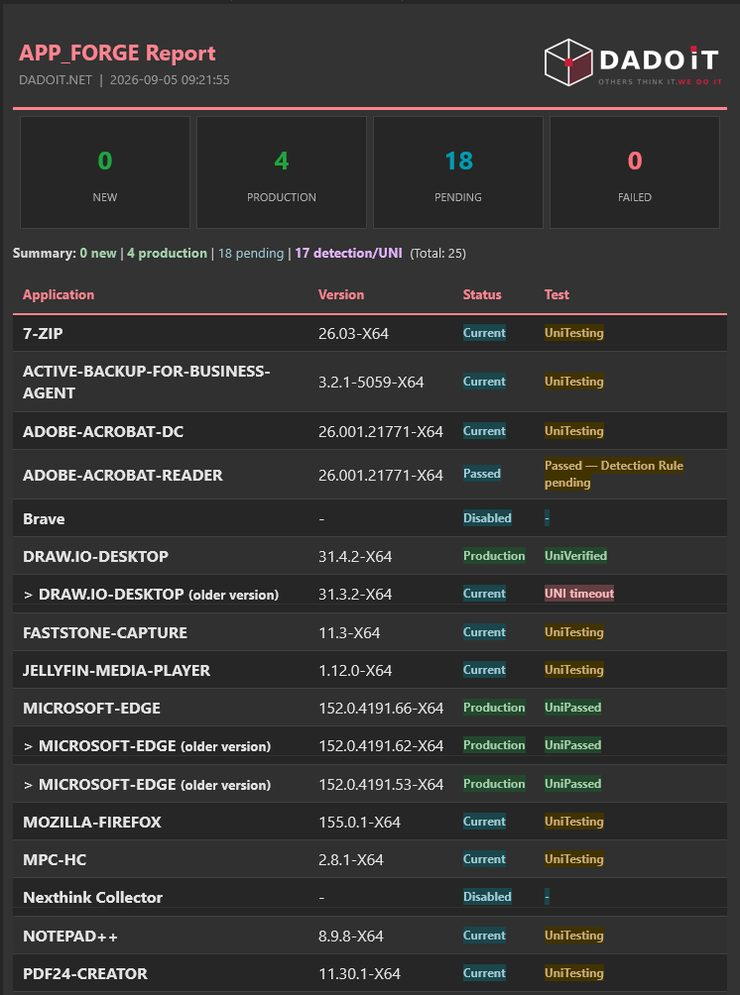
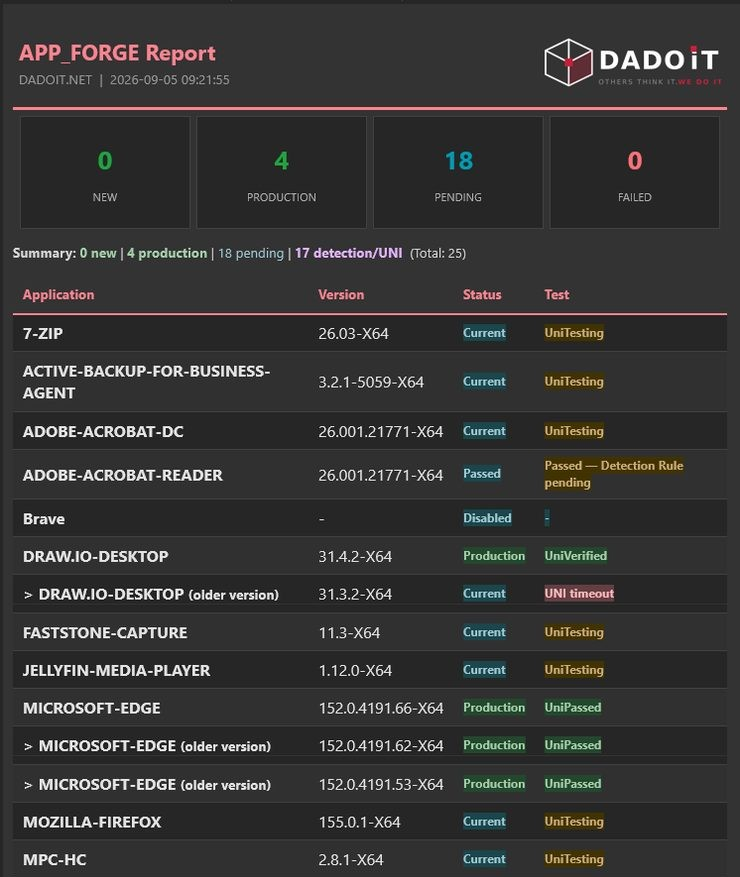
hammer.html: review round - product row cut from three pictures (update groups, both mails), internal paths in two log lines neutralised, release notes only from Build 87
Claude-Session: https://claude.ai/code/session_01MVD4TsKN4tmphZwAZbupDT

Changed region(s): [[0.0, 0.0308, 0.9946, 0.9852], [0.4351, 0.431, 0.9324, 1.0]]

diff --git a/hammer.html b/hammer.html
@@ -515,8 +515,6 @@
   <details class="rel reveal" open><summary>Build 91 <span class="tagb"><span data-lang-en>released 11 Nov 2026 · beta run follows</span><span data-lang-de>veröffentlicht 11.11.2026 · Lauf in der Beta folgt</span></span></summary><div class="cols"><div data-lang-en><h3>New</h3><ul><li>Glossary of placeholders and PSADT variables: a register of its own in the package editor and a panel in Reforge. For every placeholder it shows the meaning, where it is valid and a preview with the values of the open application; a click copies the name.</li><li>Package editor with registers instead of one long form. Messages are listed on top and lead to the field with a click.</li><li>Session duration of the web interface can be set per role (5–480 minutes). Two minutes before the end a warning with "Extend session" appears.</li><li>Release for production per version in the readiness overview when the automatic check of the uninstallation is switched off.</li><li>A change of the baramundi version is detected. The first cycle after it takes a new comparison baseline instead of reporting differences as changes.</li><li>Check rule for PSADT names: a warning appears when the application name of a package definition does not fit the application or names another one.</li></ul></div><div data-lang-en><h3>Improved</h3><ul><li>Changes an administrator makes on purpose in the baramundi console count as facts. A hold only happens for unclear values.</li><li>The test status of a version only moves forward; a test restarted on purpose is recorded as such.</li><li>Stuck tests are reported with their reason and can be restarted.</li><li>The plan for differing options of productive versions needs a single approval.</li><li>When a definition is created from an existing package, fields that still carry the template's name are marked and a replacement is offered.</li><li>When a session ends, input is kept and can be saved after signing in again.</li><li>More texts of the interface are translated into German and Spanish.</li></ul></div><div data-lang-en><h3>Fixed</h3><ul><li>After switching the application the editor still showed notes of the application opened before.</li><li>An outdated mark "local uninstaller" stayed after the installer type was changed.</li><li>Selection lists without an own value could be taken over as a value.</li><li>Deploy scripts counted as changed when only their header line differed.</li><li>Folders the retention rule had deleted itself were also reported as "removed from outside".</li><li>An uninstall line made of switches only was reported as an error although the local uninstaller had been detected.</li></ul></div><div data-lang-en><h3>Security</h3><ul><li>The session duration can be limited per role; every change is recorded in the log.</li><li>Release for production without a checked uninstallation only with an explicit approval per version.</li></ul></div><div data-lang-en><h3>Known limitations</h3><ul><li>The change of the baramundi version is only detected when this build ran at least one cycle before the change.</li><li>The preview in the glossary uses the last known version of an application; when none is known it shows a marked example.</li><li>For the list of programs to close, the check rule for PSADT names only warns when the list names nothing but another managed application.</li></ul></div><div data-lang-en><h3>Update notes</h3><ul><li>Install this build and let it run at least one cycle before changing the baramundi version.</li><li>Existing settings stay valid; the previous session duration applies to all roles until a value per role is set.</li><li>Existing package definitions and their placeholders are resolved unchanged.</li></ul></div><div data-lang-en><h3>Compatibility</h3><ul><li>baramundi Management Suite: operated with 2026 R1 (beta environment); findings from a test environment with 2026 R2 are taken into account. bConnect 1.1 and 2.0.</li><li>PSAppDeployToolkit 4.1.8 with template 4.10 (APP_FORGE PSADT Edition).</li></ul></div><div data-lang-de><h3>Neu</h3><ul><li>Glossar der Platzhalter und PSADT-Variablen: im Paket-Editor als eigenes Register und im Bereich Reforge. Es zeigt für jeden Platzhalter Bedeutung, Geltungsbereich und eine Vorschau mit den Werten der geöffneten Anwendung; ein Klick kopiert den Namen.</li><li>Paket-Editor mit Registern statt eines langen Formulars. Meldungen stehen oben und führen per Klick zum betroffenen Feld.</li><li>Sitzungsdauer der Weboberfläche pro Rolle einstellbar (5–480 Minuten). Zwei Minuten vor Ablauf erscheint eine Warnung mit „Sitzung verlängern“.</li><li>Freigabe für die Produktion pro Version in der Readiness-Übersicht, wenn die automatische Prüfung der Deinstallation ausgeschaltet ist.</li><li>Wechsel der baramundi-Version wird erkannt. Der erste Zyklus danach legt einen neuen Vergleichsstand an, statt Unterschiede als Änderungen zu melden.</li><li>Prüfregel für PSADT-Namen: Passt der Anwendungsname einer Paketdefinition nicht zur Anwendung oder nennt er eine andere Anwendung, erscheint eine Warnung.</li></ul></div><div data-lang-de><h3>Verbessert</h3><ul><li>Änderungen, die ein Administrator bewusst in der baramundi-Konsole vornimmt, gelten als Tatsache. Angehalten wird nur noch bei unklaren Werten.</li><li>Der Teststatus einer Version läuft nur noch vorwärts; ein bewusst neu gestarteter Test wird als solcher festgehalten.</li><li>Festgefahrene Tests werden mit Grund gemeldet und lassen sich gezielt neu starten.</li><li>Der Plan für abweichende Optionen produktiver Versionen braucht nur noch eine Freigabe.</li><li>Beim Anlegen einer Definition aus einem bestehenden Paket werden Felder markiert, die noch den Namen der Vorlage tragen; das Ersetzen wird angeboten.</li><li>Läuft eine Sitzung ab, bleiben Eingaben erhalten und lassen sich nach erneuter Anmeldung speichern.</li><li>Weitere Texte der Oberfläche sind auf Deutsch und Spanisch übersetzt.</li></ul></div><div data-lang-de><h3>Behoben</h3><ul><li>Der Editor zeigte nach dem Wechsel der Anwendung noch Hinweise der zuvor geöffneten Anwendung.</li><li>Eine veraltete Markierung „lokaler Deinstaller“ blieb nach dem Wechsel des Installer-Typs bestehen.</li><li>Auswahllisten ohne eigenen Wert konnten als Wert übernommen werden.</li><li>Deploy-Skripte galten als geändert, wenn sich nur ihre Kopfzeile unterschied.</li><li>Ordner, die die Aufbewahrungsregel selbst gelöscht hatte, wurden zusätzlich als „von aussen entfernt“ gemeldet.</li><li>Eine Deinstallationszeile nur aus Schaltern wurde als Fehler gemeldet, obwohl der lokale Deinstaller erkannt war.</li></ul></div><div data-lang-de><h3>Sicherheit</h3><ul><li>Die Sitzungsdauer ist pro Rolle begrenzbar; jede Änderung wird im Protokoll festgehalten.</li><li>Produktionsfreigabe ohne geprüfte Deinstallation nur mit ausdrücklicher Freigabe pro Version.</li></ul></div><div data-lang-de><h3>Bekannte Einschränkungen</h3><ul><li>Der Wechsel der baramundi-Version wird nur erkannt, wenn dieser Build vor dem Wechsel mindestens einen Zyklus gelaufen ist.</li><li>Die Vorschau im Glossar nutzt die zuletzt bekannte Version einer Anwendung; ist keine bekannt, zeigt sie ein gekennzeichnetes Beispiel.</li><li>Die Prüfregel für PSADT-Namen warnt bei der Liste der zu schliessenden Programme nur, wenn sie ausschliesslich eine andere verwaltete Anwendung nennt.</li></ul></div><div data-lang-de><h3>Hinweise zum Update</h3><ul><li>Vor einem Wechsel der baramundi-Version diesen Build installieren und mindestens einen Zyklus laufen lassen.</li><li>Bestehende Einstellungen bleiben gültig; die bisherige Sitzungsdauer gilt für alle Rollen, bis ein Wert pro Rolle gesetzt wird.</li><li>Bestehende Paketdefinitionen und ihre Platzhalter werden unverändert aufgelöst.</li></ul></div><div data-lang-de><h3>Kompatibilität</h3><ul><li>baramundi Management Suite: betrieben mit 2026 R1 (Beta-Umgebung); Befunde aus einer Testumgebung mit 2026 R2 sind berücksichtigt. bConnect 1.1 und 2.0.</li><li>PSAppDeployToolkit 4.1.8 mit Vorlage 4.10 (APP_FORGE PSADT Edition).</li></ul></div></div></details>
   <details class="rel reveal"><summary>Build 90</summary><div class="cols"><div data-lang-en><h3>New</h3><ul><li>Migration gate: while a decision on rules source, layout of the distribution point or PSADT is open, the engine works read-only and says so in report and readiness overview.</li><li>Plan for differing options of productive versions, with approval.</li><li>Four check rules for package definitions (uninstall line, package identifier, file pattern with a fixed timestamp, file type fitting the installer type).</li><li>Own uninstall script for PSADT packages.</li></ul></div><div data-lang-en><h3>Improved</h3><ul><li>Approvals are worked off as a step of their own in the cycle.</li><li>Version-bound PSADT values (source folder, installer file) no longer travel to another version.</li><li>Changes to PSADT logic files in the distribution point outside the application are detected and recorded.</li><li>The setup steps can be selected directly.</li></ul></div><div data-lang-en><h3>Fixed</h3><ul><li>Saving the package definitions could change the access rights of the file.</li><li>Paths with mixed separators in the conversion to PSADT.</li><li>A missing permission was not named clearly.</li></ul></div><div data-lang-en><h3>Security</h3><ul><li>Before every publication the test suite also runs on Windows, including the rights check.</li><li>The build guard for the neutral PSADT package was extended.</li></ul></div><div data-lang-en><h3>Update notes</h3><ul><li>Check the readiness overview after the update: open decisions keep the engine in read-only mode.</li></ul></div><div data-lang-en><h3>Compatibility</h3><ul><li>PSADT template 4.10 (APP_FORGE PSADT Edition), PSAppDeployToolkit 4.1.8. bConnect 1.1 and 2.0.</li></ul></div><div data-lang-de><h3>Neu</h3><ul><li>Migrationssperre: Solange eine Entscheidung zu Regelquelle, Layout des Verteilpunkts oder PSADT offen ist, arbeitet die Engine nur lesend und meldet das in Bericht und Readiness-Übersicht.</li><li>Plan für abweichende Optionen produktiver Versionen, mit Freigabe.</li><li>Vier Prüfregeln für Paketdefinitionen (Deinstallationszeile, Paketkennung, Dateimuster mit festem Zeitstempel, Dateityp passend zum Installer-Typ).</li><li>Eigenes Deinstallationsskript für PSADT-Pakete.</li></ul></div><div data-lang-de><h3>Verbessert</h3><ul><li>Freigaben werden als eigener Schritt im Zyklus abgearbeitet.</li><li>Versionsgebundene PSADT-Werte (Quellordner, Installer-Datei) wandern nicht mehr in eine andere Version.</li><li>Änderungen an PSADT-Logikdateien im Verteilpunkt ausserhalb der Anwendung werden erkannt und festgehalten.</li><li>Die Einrichtungsschritte sind direkt anwählbar.</li></ul></div><div data-lang-de><h3>Behoben</h3><ul><li>Speichern der Paketdefinitionen konnte Zugriffsrechte der Datei verändern.</li><li>Pfade mit gemischten Trennzeichen bei der Umwandlung nach PSADT.</li><li>Fehlende Berechtigung wurde nicht klar benannt.</li></ul></div><div data-lang-de><h3>Sicherheit</h3><ul><li>Vor jeder Veröffentlichung läuft die Testreihe zusätzlich unter Windows, einschliesslich der Rechteprüfung.</li><li>Der Build-Schutz für das neutrale PSADT-Paket wurde erweitert.</li></ul></div><div data-lang-de><h3>Hinweise zum Update</h3><ul><li>Nach dem Update die Readiness-Übersicht prüfen: Offene Entscheidungen halten die Engine im Lesemodus.</li></ul></div><div data-lang-de><h3>Kompatibilität</h3><ul><li>PSADT-Vorlage 4.10 (APP_FORGE PSADT Edition), PSAppDeployToolkit 4.1.8. bConnect 1.1 und 2.0.</li></ul></div></div></details>
   <details class="rel reveal"><summary>Build 87</summary><div class="cols"><div data-lang-en><h3>New</h3><ul><li>Own object directory: bundles, jobs, groups, folders and definitions are found again by their identifier, also after a rename.</li><li>The engine fetches the PSADT package that belongs to its own release.</li><li>Cleanup of orphaned objects: own test jobs automatically, bundles and production jobs without an application only after approval.</li></ul></div><div data-lang-en><h3>Improved</h3><ul><li>Job folders and the distribution point are read completely only when due (every 7 days, after an update or on request).</li><li>The variable check adds missing values only after a preview.</li><li>Self-update and update check take complete releases only.</li></ul></div><div data-lang-en><h3>Fixed</h3><ul><li>Update jobs with bundles failed because of the spelling of an identifier.</li><li>Several rows of the readiness overview (look, PSADT update, date format, message texts).</li></ul></div><div data-lang-en><h3>Security</h3><ul><li>"Delete and recreate" of variable definitions was removed: the application no longer deletes a definition.</li><li>A published release is not replaced afterwards.</li></ul></div><div data-lang-en><h3>Update notes</h3><ul><li>The first cycle after the update reads all objects completely once and takes longer accordingly.</li></ul></div><div data-lang-en><h3>Compatibility</h3><ul><li>PSADT template 4.10 (APP_FORGE PSADT Edition), PSAppDeployToolkit 4.1.8. baramundi versions are not documented for this build.</li></ul></div><div data-lang-de><h3>Neu</h3><ul><li>Eigenes Objektverzeichnis: Bundles, Jobs, Gruppen, Ordner und Definitionen werden über ihre Kennung wiedergefunden, auch nach einer Umbenennung.</li><li>Die Engine holt das PSADT-Paket passend zu ihrem eigenen Release.</li><li>Aufräumen verwaister Objekte: eigene Testjobs automatisch, Bundles und Produktionsjobs ohne Anwendung nur nach Freigabe.</li></ul></div><div data-lang-de><h3>Verbessert</h3><ul><li>Vollständiges Einlesen der Jobordner und des Verteilpunkts nur noch bei Bedarf (alle 7 Tage, nach einem Update oder auf Anforderung).</li><li>Die Variablenprüfung ergänzt fehlende Werte erst nach einer Vorschau.</li><li>Selbst-Update und Update-Prüfung berücksichtigen nur vollständige Releases.</li></ul></div><div data-lang-de><h3>Behoben</h3><ul><li>Update-Jobs mit Bundles schlugen wegen der Schreibweise einer Kennung fehl.</li><li>Mehrere Zeilen der Readiness-Übersicht (Erscheinungsbild, PSADT-Update, Datumsformat, Meldungstexte).</li></ul></div><div data-lang-de><h3>Sicherheit</h3><ul><li>„Löschen und neu anlegen“ von Variablendefinitionen wurde entfernt: Die Anwendung löscht keine Definition mehr.</li><li>Ein veröffentlichtes Release wird nicht nachträglich ersetzt.</li></ul></div><div data-lang-de><h3>Hinweise zum Update</h3><ul><li>Der erste Zyklus nach dem Update liest alle Objekte einmal vollständig ein und dauert entsprechend länger.</li></ul></div><div data-lang-de><h3>Kompatibilität</h3><ul><li>PSADT-Vorlage 4.10 (APP_FORGE PSADT Edition), PSAppDeployToolkit 4.1.8. Angaben zu baramundi-Versionen sind für diesen Build nicht dokumentiert.</li></ul></div></div></details>
-  <details class="rel reveal"><summary>Build 86</summary><div class="cols"><div data-lang-en><h3>New</h3><ul><li>Neutral PSADT package (template 4.10) with an exchangeable look (brand) per environment.</li><li>PSADT update: only the logic is renewed, with comparison, approval, backup, checksum and rollback.</li><li>Plausibility check of a download before an application or a job is created (file type, foreign operating system, archive without extraction rule, MSI without product code).</li><li>The ledger leads the definition: changes in the console are detected; for productive versions the administrator decides (adopt, keep, revert).</li><li>Orphaned folders in the distribution point: plan, approval per path, deletion by the engine with a manifest and rollback.</li><li>Variable parameters per application; passwords only as references.</li><li>File list for PSADT applications.</li></ul></div><div data-lang-en><h3>Improved</h3><ul><li>Uninstallation of PSADT packages from a local copy; existing versions only after approval.</li><li>Removed versions appear in log and report with name, version, last status and originator.</li><li>Test jobs of superseded, never productive versions are cleaned up.</li><li>Options of existing productive versions are only adjusted after approval.</li></ul></div><div data-lang-en><h3>Fixed</h3><ul><li>PSADT definitions were not recognised when the installation ways were compared.</li><li>Open conflicts of removed applications stayed.</li></ul></div><div data-lang-en><h3>Security</h3><ul><li>A build guard keeps environment-specific content out of the neutral PSADT package.</li></ul></div><div data-lang-en><h3>Known limitations</h3><ul><li>This build was provided as the engine file only, without setup and without the PSADT package.</li></ul></div><div data-lang-en><h3>Update notes</h3><ul><li>The look (brand) is taken over from the previous setting with an approval.</li></ul></div><div data-lang-en><h3>Compatibility</h3><ul><li>PSADT template 4.10 (APP_FORGE PSADT Edition), PSAppDeployToolkit 4.1.8. baramundi versions are not documented for this build.</li></ul></div><div data-lang-de><h3>Neu</h3><ul><li>Neutrales PSADT-Paket (Vorlage 4.10) mit austauschbarem Erscheinungsbild (Brand) pro Umgebung.</li><li>PSADT-Update: nur die Logik wird erneuert, mit Vergleich, Freigabe, Sicherung, Prüfsumme und Rücknahme.</li><li>Plausibilitätsprüfung eines Downloads, bevor eine Anwendung oder ein Job angelegt wird (Dateityp, fremdes Betriebssystem, Archiv ohne Entpackregel, MSI ohne Produktcode).</li><li>Das Protokoll (Ledger) führt die Definition: Änderungen in der Konsole werden erkannt; bei produktiven Versionen entscheidet der Administrator (übernehmen, behalten, zurücksetzen).</li><li>Verwaiste Ordner im Verteilpunkt: Plan, Freigabe pro Pfad, Löschung durch die Engine mit Manifest und Rücknahme.</li><li>Variablenparameter pro Anwendung; Passwörter nur als Verweis.</li><li>Dateiliste für PSADT-Anwendungen.</li></ul></div><div data-lang-de><h3>Verbessert</h3><ul><li>Deinstallation von PSADT-Paketen aus einer lokalen Kopie; bestehende Versionen erst nach Freigabe.</li><li>Entfernte Versionen erscheinen in Log und Bericht mit Name, Version, letztem Status und Urheber.</li><li>Testjobs abgelöster, nie produktiver Versionen werden aufgeräumt.</li><li>Optionen bestehender produktiver Versionen werden nur nach Freigabe angepasst.</li></ul></div><div data-lang-de><h3>Behoben</h3><ul><li>PSADT-Definitionen wurden beim Vergleich der Installationswege nicht erkannt.</li><li>Offene Konflikte entfernter Anwendungen blieben stehen.</li></ul></div><div data-lang-de><h3>Sicherheit</h3><ul><li>Ein Build-Schutz verhindert, dass umgebungsspezifische Inhalte in das neutrale PSADT-Paket gelangen.</li></ul></div><div data-lang-de><h3>Bekannte Einschränkungen</h3><ul><li>Dieser Build wurde nur als Engine-Datei bereitgestellt, ohne Setup und ohne PSADT-Paket.</li></ul></div><div data-lang-de><h3>Hinweise zum Update</h3><ul><li>Das Erscheinungsbild (Brand) wird mit Freigabe aus der bisherigen Einstellung übernommen.</li></ul></div><div data-lang-de><h3>Kompatibilität</h3><ul><li>PSADT-Vorlage 4.10 (APP_FORGE PSADT Edition), PSAppDeployToolkit 4.1.8. Angaben zu baramundi-Versionen sind für diesen Build nicht dokumentiert.</li></ul></div></div></details>
-  <details class="rel reveal"><summary>Build 85</summary><div class="cols"><div data-lang-en><h3>New</h3><ul><li>Reforge area: edit the PSADT variables of existing packages, use an existing package as the template of a new definition, convert MSI and silent EXE packages to PSADT (plan, approval, execution by the engine with rollback).</li><li>Switch of the rules source from script files to APPS.json: import in one step with undo and a log entry.</li><li>Readiness overview with rows of their own for DIP layout, rules source, deviations and access rights; the first cycle stays blocked while one of these decisions is open.</li><li>PSADT template 4.9: detection of the MSI product code, more precise check after installation and uninstallation.</li></ul></div><div data-lang-en><h3>Improved</h3><ul><li>Interface rebuilt in German and Spanish.</li><li>Productive versions need a confirmation of their own before they are changed.</li><li>Log retention follows the date in the file name, for all kinds of logs.</li><li>The version display reports when interface and engine do not belong to the same build.</li></ul></div><div data-lang-en><h3>Fixed</h3><ul><li>The engine reported its own writes as a conflict with the console.</li><li>The DIP rebuild now also rewrites the references in APPS.json.</li></ul></div><div data-lang-en><h3>Security</h3><ul><li>Input is escaped throughout the interface (one place where values reached buttons unfiltered was corrected).</li><li>Write rights for the import are granted on purpose and revoked afterwards.</li></ul></div><div data-lang-en><h3>Known limitations</h3><ul><li>Script installers are only reported by the conversion to PSADT, not converted automatically.</li></ul></div><div data-lang-en><h3>Update notes</h3><ul><li>After the update open the readiness overview and take the open decisions (DIP layout, rules source).</li></ul></div><div data-lang-en><h3>Compatibility</h3><ul><li>PSADT template 4.9. baramundi versions are not documented for this build.</li></ul></div><div data-lang-de><h3>Neu</h3><ul><li>Bereich Reforge: PSADT-Variablen bestehender Pakete bearbeiten, ein bestehendes Paket als Vorlage für eine neue Definition verwenden, MSI- und stille EXE-Pakete nach PSADT umwandeln (Plan, Freigabe, Ausführung durch die Engine mit Rücknahme).</li><li>Umstellung der Regelquelle von Skriptdateien auf APPS.json: Import in einem Schritt mit Rücknahme und Protokolleintrag.</li><li>Readiness-Übersicht mit eigenen Zeilen für DIP-Layout, Regelquelle, Abweichungen und Zugriffsrechte; der erste Zyklus bleibt gesperrt, solange eine dieser Entscheidungen offen ist.</li><li>PSADT-Vorlage 4.9: Erkennung des MSI-Produktcodes, genauere Prüfung nach Installation und Deinstallation.</li></ul></div><div data-lang-de><h3>Verbessert</h3><ul><li>Oberfläche in Deutsch und Spanisch neu aufgebaut.</li><li>Produktive Versionen brauchen eine eigene Bestätigung, bevor sie geändert werden.</li><li>Log-Aufbewahrung richtet sich nach dem Datum im Dateinamen, für alle Log-Arten.</li><li>Die Versionsanzeige meldet, wenn Oberfläche und Engine nicht zum selben Build gehören.</li></ul></div><div data-lang-de><h3>Behoben</h3><ul><li>Die Engine meldete eigene Schreibvorgänge als Konflikt mit der Konsole.</li><li>Der DIP-Umbau schreibt die Verweise jetzt auch in APPS.json um.</li></ul></div><div data-lang-de><h3>Sicherheit</h3><ul><li>Eingaben werden in der Oberfläche durchgehend maskiert (Korrektur einer Stelle, an der Werte ungefiltert in Schaltflächen gelangten).</li><li>Schreibrechte für den Import werden gezielt vergeben und danach wieder entzogen.</li></ul></div><div data-lang-de><h3>Bekannte Einschränkungen</h3><ul><li>Skript-Installer werden bei der Umwandlung nach PSADT nur gemeldet, nicht automatisch umgewandelt.</li></ul></div><div data-lang-de><h3>Hinweise zum Update</h3><ul><li>Nach dem Update die Readiness-Übersicht öffnen und offene Entscheidungen (DIP-Layout, Regelquelle) treffen.</li></ul></div><div data-lang-de><h3>Kompatibilität</h3><ul><li>PSADT-Vorlage 4.9. Angaben zu baramundi-Versionen sind für diesen Build nicht dokumentiert.</li></ul></div></div></details>
 </section>
 
 <section id="tag">
@@ -543,7 +541,7 @@
 [INFO]   DIP heal: downloading https://winscp.net/download/WinSCP-6.5.6-Setup.exe/download -> ...\10_SOURCE\WinSCP-6.5.6-Setup.exe
 <span class="ok">[OK  ]</span>   DIP heal: restored ...\vlc-3.0.23-win64.msi (57,8 MB, SHA-256 verified)
 <span class="ok">[OK  ]</span>   DIP restored: WINSCP v6.5.6-X64 - DIP_MISSING cleared</span></li>
-    <li><b><span data-lang-en>Report — to the people who need to know.</span><span data-lang-de>Berichten — an die Menschen, die es wissen müssen.</span></b><span class="log"><span class="ok">[OK  ]</span> Report: D:\00_DIP\Reports\APP_FORGE\APP_FORGE_20260906_181038.html
+    <li><b><span data-lang-en>Report — to the people who need to know.</span><span data-lang-de>Berichten — an die Menschen, die es wissen müssen.</span></b><span class="log"><span class="ok">[OK  ]</span> Report: \\server\DIP$\Reports\APP_FORGE\APP_FORGE_20260906_181038.html
 <span class="ok">[OK  ]</span> Email sent via M365
 [INFO] New: 1 | Production: 21 | Pending: 0 | Failed: 0</span></li>
   </ul>
@@ -576,7 +574,7 @@ Loaded 22 app definition(s) from APPS.json
     <div class="claim"><div><div class="ft"><span data-lang-en>Repeated errors escalate</span><span data-lang-de>Wiederholte Fehler eskalieren</span></div><p class="fd"><span data-lang-en>The same error over three runs changes the mail subject. An error that looks the same every day is otherwise invisible.</span><span data-lang-de>Derselbe Fehler über drei Läufe ändert die Betreffzeile der Mail. Ein Fehler, der jeden Tag gleich aussieht, bleibt sonst unsichtbar.</span></p></div><span class="log">[ACTION NEEDED] APP_FORGE: 0 new, 20 production, 1 pending, 1 failed
 ACTION NEEDED: 1 app(s) with the same error for 3+ runs</span></div>
     <div class="claim"><div><div class="ft"><span data-lang-en>PSADT and bDS scripts</span><span data-lang-de>PSADT und bDS-Skripte</span></div><p class="fd"><span data-lang-en>Apps with the PowerShell App Deployment Toolkit: variables, script folders, shared vendor templates.</span><span data-lang-de>Apps mit dem PowerShell App Deployment Toolkit: Variablen, Skriptordner, gemeinsame Vorlagen pro Hersteller.</span></p></div><span class="log">Adobe.AcrobatDC   Direct  BDS  13 psadt  ExtractAll _GLOBAL</span></div>
-    <div class="claim"><div><div class="ft"><span data-lang-en>One file, one state</span><span data-lang-de>Eine Datei, ein Zustand</span></div><p class="fd"><span data-lang-en>The whole operating state lives in one JSON file next to the configuration — none of it in baramundi variables nobody can see.</span><span data-lang-de>Der gesamte Betriebszustand liegt in einer JSON-Datei neben der Konfiguration — nichts davon in baramundi-Variablen, die niemand sieht.</span></p></div><span class="log">State: D:\05_APP_FORGE\_STATE\hammer-state.json (22 app(s))
+    <div class="claim"><div><div class="ft"><span data-lang-en>One file, one state</span><span data-lang-de>Eine Datei, ein Zustand</span></div><p class="fd"><span data-lang-en>The whole operating state lives in one JSON file next to the configuration — none of it in baramundi variables nobody can see.</span><span data-lang-de>Der gesamte Betriebszustand liegt in einer JSON-Datei neben der Konfiguration — nichts davon in baramundi-Variablen, die niemand sieht.</span></p></div><span class="log">State: &lt;Root&gt;\_STATE\hammer-state.json (22 app(s))
 Install anchor created: HKLM\SOFTWARE\DADOIT\APP_FORGE Role=Server</span></div>
     <div class="claim"><div><div class="ft"><span data-lang-en>The web interface lives inside the engine</span><span data-lang-de>Die Oberfläche steckt in der Engine</span></div><p class="fd"><span data-lang-en>One EXE serves the cycle at night and the web interface during the day — over HTTPS, signed in with the Windows account, roles from two AD groups: Admin (everything) and Packager (packages only). The page itself is part of the EXE; an engine update brings the matching interface. In English, German and Spanish.</span><span data-lang-de>Eine EXE fährt nachts den Zyklus und liefert am Tag die Web-Oberfläche — über HTTPS, Anmeldung mit dem Windows-Konto, Rollen aus zwei AD-Gruppen: Admin (alles) und Packager (nur Pakete). Die Seite selbst ist Teil der EXE; ein Engine-Update bringt die passende Oberfläche mit. In Deutsch, Englisch und Spanisch.</span></p></div><span class="log">Web host Run 91 · GUI core-91</span></div>
     <div class="claim"><div><div class="ft"><span data-lang-en>Updates itself — on request</span><span data-lang-de>Aktualisiert sich selbst — auf Knopfdruck</span></div><p class="fd"><span data-lang-en>The admin clicks <em>Update engine</em> (or runs <code>--self-update</code>). The engine downloads the newest release, checks its SHA-256 against GitHub, swaps itself, restarts the web host — and goes back to the previous version if the new one does not answer. A channel setting (<code>manual</code>, <code>public</code>, <code>private</code>) decides where updates come from — or that they come by hand. Only complete releases are taken. The log below is of 22 Oct 2026 (Run 47 to 49).</span><span data-lang-de>Der Admin klickt <em>Update engine</em> (oder ruft <code>--self-update</code> auf). Die Engine lädt das neueste Release, prüft die SHA-256 gegen GitHub, tauscht sich aus, startet den Web-Host neu — und kehrt zur vorherigen Version zurück, wenn die neue nicht antwortet. Ein Kanal (<code>manual</code>, <code>public</code>, <code>private</code>) legt fest, woher Updates kommen — oder dass sie von Hand kommen. Berücksichtigt werden nur vollständige Releases. Das Log unten ist vom 22.10.2026 (Run 47 auf 49).</span></p></div><span class="log">downloading core-v2.3.0-49 (12,7 MB)
@@ -601,7 +599,7 @@ strike deleted    by retention (engine) - not reported as gone</span></div>
     <div class="claim"><div><div class="ft"><span data-lang-en>The test status only moves forward</span><span data-lang-de>Der Teststatus läuft nur vorwärts</span> <span class="tagb"><span data-lang-en>new in Build 91</span><span data-lang-de>neu in Build 91</span></span></div><p class="fd"><span data-lang-en>A version never falls back a step. If the install test runs again after a change in the console, the test restarts on purpose and is recorded as such. Missing steps are reconciled from facts. A stuck test is reported with its reason and can be restarted with <em>test again</em>.</span><span data-lang-de>Eine Version fällt nie einen Schritt zurück. Läuft der Installationstest nach einer Änderung in der Konsole erneut, startet der Test bewusst neu und wird so festgehalten. Fehlende Schritte werden aus Fakten abgeglichen. Ein festgefahrener Test wird mit Grund gemeldet und lässt sich mit <em>neu testen</em> gezielt neu starten.</span></p></div><span class="log">ASSIGNED < PASSED < DETECTION_READY < UNI_ASSIGNED < UNI_PASSED < UNI_VERIFIED
 strike test-restarted   strike reconciled   strike stuck
 strike status-regression-refused</span></div>
-    <div class="claim"><div><div class="ft"><span data-lang-en>Reforge: start from a package that exists</span><span data-lang-de>Reforge: vom bestehenden Paket ausgehen</span> <span class="tagb"><span data-lang-en>since Build 85</span><span data-lang-de>seit Build 85</span></span></div><p class="fd"><span data-lang-en>Edit the PSADT variables of an existing package, use it as the template of a new definition, or convert an MSI or silent EXE package to PSADT — as a plan, with approval, carried out by the engine, with rollback. Fields that still carry the template’s name are marked and a replacement is offered.</span><span data-lang-de>Die PSADT-Variablen eines bestehenden Pakets bearbeiten, es als Vorlage für eine neue Definition verwenden oder ein MSI- bzw. stilles EXE-Paket nach PSADT umwandeln — als Plan, mit Freigabe, ausgeführt von der Engine, mit Rücknahme. Felder, die noch den Namen der Vorlage tragen, werden markiert, und das Ersetzen wird angeboten.</span></p></div><span class="log">strike template-from
+    <div class="claim"><div><div class="ft"><span data-lang-en>Reforge: start from a package that exists</span><span data-lang-de>Reforge: vom bestehenden Paket ausgehen</span></div><p class="fd"><span data-lang-en>Edit the PSADT variables of an existing package, use it as the template of a new definition, or convert an MSI or silent EXE package to PSADT — as a plan, with approval, carried out by the engine, with rollback. Fields that still carry the template’s name are marked and a replacement is offered.</span><span data-lang-de>Die PSADT-Variablen eines bestehenden Pakets bearbeiten, es als Vorlage für eine neue Definition verwenden oder ein MSI- bzw. stilles EXE-Paket nach PSADT umwandeln — als Plan, mit Freigabe, ausgeführt von der Engine, mit Rücknahme. Felder, die noch den Namen der Vorlage tragen, werden markiert, und das Ersetzen wird angeboten.</span></p></div><span class="log">strike template-from
 PSADT APPNAME 'Notepad++' names another AF application (Notepad++) - the name of a template?</span></div>
     <div class="claim"><div><div class="ft"><span data-lang-en>Options plan and release for production, per version</span><span data-lang-de>Options-Plan und Produktionsfreigabe, pro Version</span> <span class="tagb"><span data-lang-en>new in Build 91</span><span data-lang-de>neu in Build 91</span></span></div><p class="fd"><span data-lang-en>When options of a productive version differ from the definition, Hammer shows a plan and waits for one approval per version. If the automatic check of the uninstallation is switched off, a version goes to production only with an explicit approval.</span><span data-lang-de>Weichen Optionen einer produktiven Version von der Definition ab, zeigt Hammer einen Plan und wartet auf eine Freigabe pro Version. Ist die automatische Prüfung der Deinstallation ausgeschaltet, geht eine Version nur mit ausdrücklicher Freigabe in die Produktion.</span></p></div><span class="log">1 PRODUCTIVE version(s): options differ from the definition / template - not patched without approval
 strike production-without-uni</span></div>
@@ -622,7 +620,7 @@ strike session-minutes-changed</span></div>
   <h2><span data-lang-en>Inside baramundi</span><span data-lang-de>Im baramundi selbst</span></h2>
   <p class="fd" style="max-width:70ch;margin:0 auto 28px;text-align:center"><span data-lang-en>Hammer creates ordinary baramundi objects — applications, jobs, bundles, static groups. Nothing proprietary, nothing an admin could not have built by hand. The difference is that it builds and maintains all of them, every run, and writes into every comment who did it. It finds its objects again by their identifier, also after a rename, cleans up orphaned objects of its own, removes bundles and production jobs without an application only after approval, and never deletes a variable definition. Screenshots: bMC of the DADO iT test environment, 6 Sep 2026.</span><span data-lang-de>Hammer erzeugt gewöhnliche baramundi-Objekte — Anwendungen, Jobs, Bundles, statische Gruppen. Nichts Proprietäres, nichts, was ein Admin nicht auch von Hand bauen könnte. Der Unterschied: Er baut und pflegt alle, in jedem Lauf, und schreibt in jeden Kommentar, wer es war. Er findet seine Objekte über ihre Kennung wieder, auch nach einer Umbenennung, räumt eigene verwaiste Objekte auf, entfernt Bundles und Produktionsjobs ohne Anwendung nur nach Freigabe und löscht nie eine Variablendefinition. Bildschirmfotos: bMC der Testumgebung DADO iT, 6.9.2026.</span></p>
   <div class="gallery reveal">
-    <figure class="shot wide"><img src="assets/hammer/bmc-update-groups.jpg" alt="bMC, 6 Sep 2026: 22 update groups, one per app, with Hammer comments / bMC, 6.9.2026: 22 Update-Gruppen, eine pro App, mit Hammer-Kommentaren" loading="lazy"/><figcaption><span data-lang-en>One static group per application — 22 in a flat list. The comment carries the count of outdated clients, the current version, the last sync and the Hammer marker. This is the rollout target: only the clients whose inventory shows an older version are members.</span><span data-lang-de>Eine statische Gruppe pro Anwendung — 22 in einer flachen Liste. Der Kommentar trägt die Zahl veralteter Clients, die aktuelle Version, den letzten Abgleich und den Hammer-Marker. Das ist das Rollout-Ziel: Mitglied sind nur die Clients, deren Inventur eine ältere Version zeigt.</span></figcaption></figure>
+    <figure class="shot wide"><img src="assets/hammer/bmc-update-groups.jpg" alt="bMC, 6 Sep 2026: update groups, one per app, with Hammer comments (first 14 of 22) / bMC, 6.9.2026: Update-Gruppen, eine pro App, mit Hammer-Kommentaren (die ersten 14 von 22)" loading="lazy"/><figcaption><span data-lang-en>One static group per application — 22 in a flat list; the picture shows the first 14. The comment carries the count of outdated clients, the current version, the last sync and the Hammer marker. This is the rollout target: only the clients whose inventory shows an older version are members.</span><span data-lang-de>Eine statische Gruppe pro Anwendung — 22 in einer flachen Liste; das Bild zeigt die ersten 14. Der Kommentar trägt die Zahl veralteter Clients, die aktuelle Version, den letzten Abgleich und den Hammer-Marker. Das ist das Rollout-Ziel: Mitglied sind nur die Clients, deren Inventur eine ältere Version zeigt.</span></figcaption></figure>
     <figure class="shot"><img src="assets/hammer/bmc-install-bundle.jpg" alt="bMC: install bundle with its application / bMC: Install-Bundle mit seiner Anwendung" loading="lazy"/><figcaption><span data-lang-en>The install bundle: always exactly one application, always the newest production version. Comment: managed by APP_FORGE Hammer.</span><span data-lang-de>Das Install-Bundle: immer genau eine Anwendung, immer die neueste Produktionsversion. Kommentar: managed by APP_FORGE Hammer.</span></figcaption></figure>
     <figure class="shot"><img src="assets/hammer/bmc-master-job.jpg" alt="bMC: master job on the bundle / bMC: Master-Job auf dem Bundle" loading="lazy"/><figcaption><span data-lang-en>The master job points at the bundle, not at a version. A new version swaps the bundle content — the job, its assignments and its schedule stay. The bundle history shows such a swap as “removed” and “added” in the same second.</span><span data-lang-de>Der Master-Job zeigt auf das Bundle, nicht auf eine Version. Eine neue Version tauscht den Bundle-Inhalt — Job, Zuweisungen und Zeitplan bleiben. Die Bundle-Historie zeigt einen solchen Tausch als «entfernt» und «hinzugefügt» in derselben Sekunde.</span></figcaption></figure>
   </div>
@@ -701,8 +699,8 @@ Siber.RoboForm    Direct  BDS  10 psadt
     <div class="fcell"><div class="ft"><span data-lang-en>PSADT from what is known</span><span data-lang-de>PSADT aus dem, was bekannt ist</span></div><p class="fd"><span data-lang-en>Choosing PSADT — or converting a verified app — fills the PSADT fields from the WinGet catalog (Programs-and-Features name without version, UpgradeCode) and the verified arguments; the human confirms.</span><span data-lang-de>Wer PSADT wählt — oder eine verifizierte App umwandelt —, bekommt die PSADT-Felder aus dem WinGet-Katalog (Programmname ohne Version, UpgradeCode) und den verifizierten Argumenten vorbelegt; der Mensch bestätigt.</span></p></div>
     <div class="fcell"><div class="ft"><span data-lang-en>Vendor APIs behind a login</span><span data-lang-de>Hersteller-APIs hinter einer Anmeldung</span></div><p class="fd"><span data-lang-en>Version query and download with an OAuth2 token, any field of the vendor’s answer usable in the download URL — and the download checked against the vendor’s SHA-256.</span><span data-lang-de>Versionsabfrage und Download mit OAuth2-Token, jedes Feld der Herstellerantwort in der Download-URL nutzbar — und der Download gegen die SHA-256 des Herstellers geprüft.</span></p></div>
     <div class="fcell"><div class="ft"><span data-lang-en>Installer detected once</span><span data-lang-de>Installer einmal erkannt</span></div><p class="fd"><span data-lang-en>On first discovery Hammer recognises the installer technology and proposes silent switches; from then on the admin’s definition rules.</span><span data-lang-de>Bei der Erstentdeckung erkennt Hammer die Installer-Technik und schlägt stille Schalter vor; danach gilt die Definition des Admins.</span></p></div>
-    <div class="fcell"><div class="ft"><span data-lang-en>Orphaned folders in the DIP</span><span data-lang-de>Verwaiste Ordner im DIP</span> <span class="tagb"><span data-lang-en>since Build 86</span><span data-lang-de>seit Build 86</span></span></div><p class="fd"><span data-lang-en>Folders of versions that no longer exist: a plan, an approval per path, deletion by the engine with a manifest and rollback.</span><span data-lang-de>Ordner von Versionen, die es nicht mehr gibt: ein Plan, eine Freigabe pro Pfad, Löschung durch die Engine mit Manifest und Rücknahme.</span></p></div>
-    <div class="fcell"><div class="ft"><span data-lang-en>Variable parameters per app</span><span data-lang-de>Variablenparameter pro App</span> <span class="tagb"><span data-lang-en>since Build 86</span><span data-lang-de>seit Build 86</span></span></div><p class="fd"><span data-lang-en>Further baramundi variables per application; passwords only as a reference to a variable, never the secret itself.</span><span data-lang-de>Weitere baramundi-Variablen pro Anwendung; Passwörter nur als Verweis auf eine Variable, nie das Geheimnis selbst.</span></p></div>
+    <div class="fcell"><div class="ft"><span data-lang-en>Orphaned folders in the DIP</span><span data-lang-de>Verwaiste Ordner im DIP</span></div><p class="fd"><span data-lang-en>Folders of versions that no longer exist: a plan, an approval per path, deletion by the engine with a manifest and rollback.</span><span data-lang-de>Ordner von Versionen, die es nicht mehr gibt: ein Plan, eine Freigabe pro Pfad, Löschung durch die Engine mit Manifest und Rücknahme.</span></p></div>
+    <div class="fcell"><div class="ft"><span data-lang-en>Variable parameters per app</span><span data-lang-de>Variablenparameter pro App</span></div><p class="fd"><span data-lang-en>Further baramundi variables per application; passwords only as a reference to a variable, never the secret itself.</span><span data-lang-de>Weitere baramundi-Variablen pro Anwendung; Passwörter nur als Verweis auf eine Variable, nie das Geheimnis selbst.</span></p></div>
     <div class="fcell"><div class="ft"><span data-lang-en>Setup program</span><span data-lang-de>Setup-Programm</span></div><p class="fd"><span data-lang-en>One setup program installs engine and interface and leads through the steps; a move from Anvil to Hammer is supported in the setup. The setup program is not code-signed yet.</span><span data-lang-de>Ein Setup-Programm installiert Engine und Oberfläche und führt durch die Schritte; der Umzug von Anvil auf Hammer wird im Setup unterstützt. Das Setup-Programm ist noch nicht signiert.</span></p></div>
   </div>
 </section>
